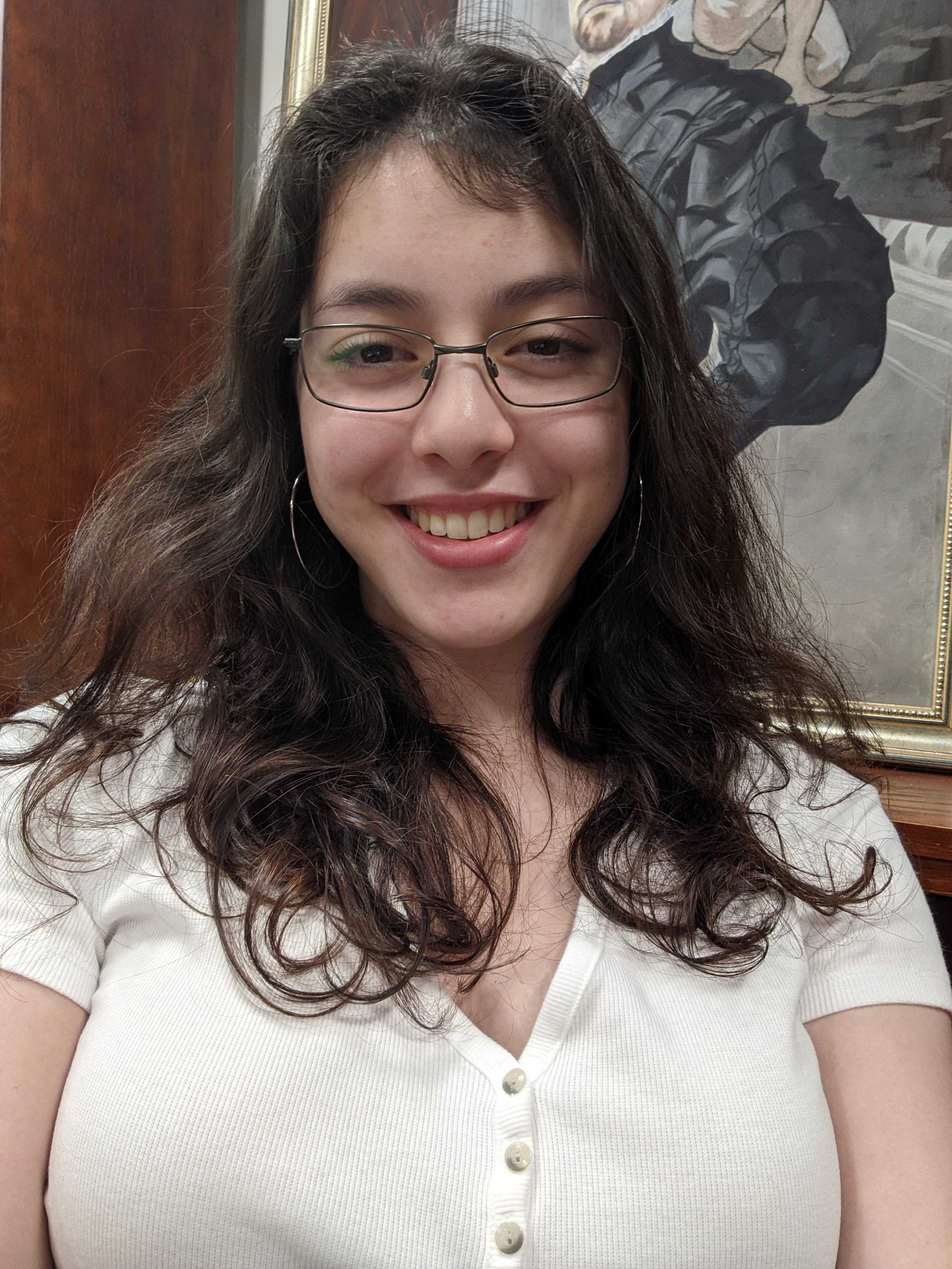
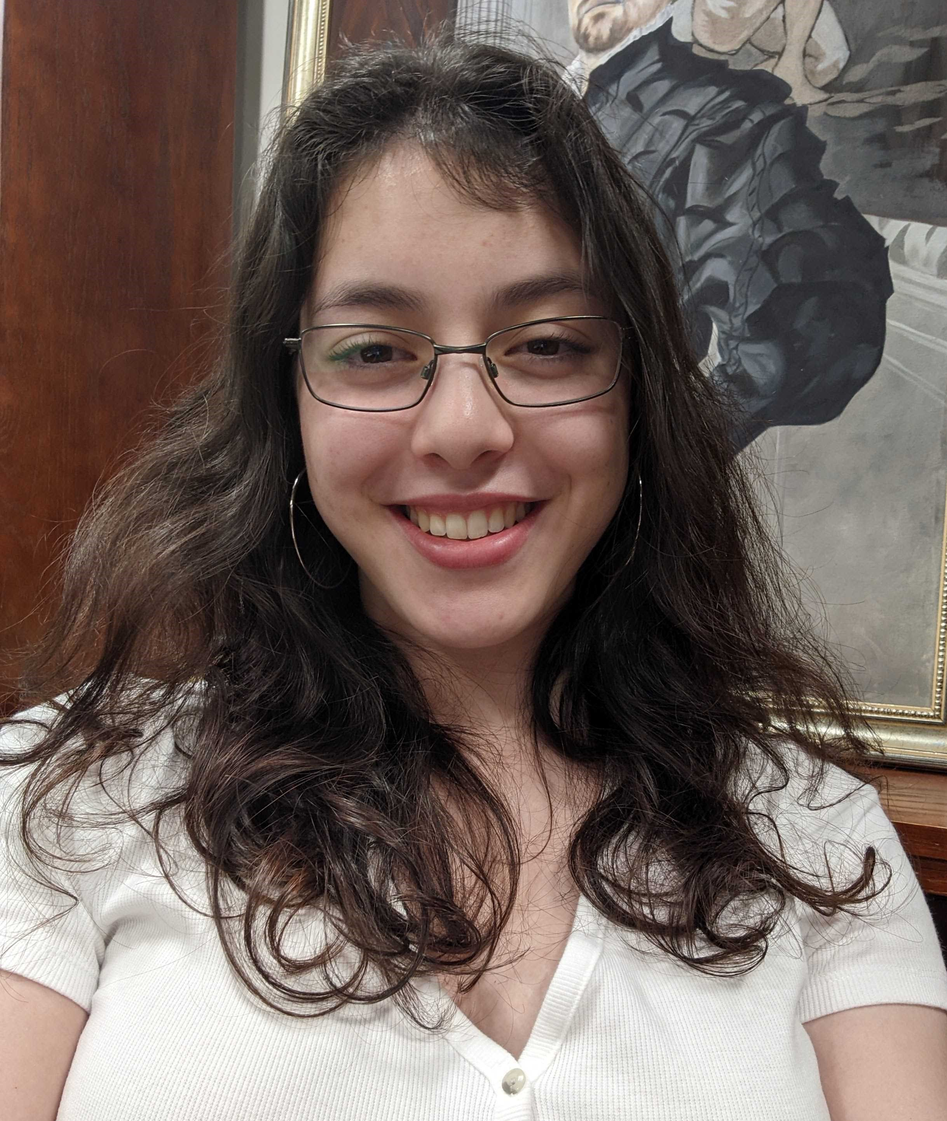
trim photos to fit; add zach

diff --git a/app/team/page.tsx b/app/team/page.tsx
@@ -23,6 +23,7 @@ import luke from "../../images/profiles/luke.jpg";
 import ajay from "../../images/profiles/ajay.jpg";
 import ilan from "../../images/profiles/ilan.jpg";
 import metch from "../../images/profiles/metch.jpg";
+import zach from "../../images/profiles/zach.jpg";
 import styles from "./styles.module.css";
 import Image from "next-image-export-optimizer";
 import Overlay from "../../components/overlay";
@@ -105,15 +106,15 @@ export default function Team() {
             </div>
             < div className={styles.profile} >
               <Image className={`responsive-image brand-border ${styles.profilePhoto}`} src={placeholder} alt="Team Member Profile" />
-              <div className={styles.name}> Name </div>
+              <div className={styles.name}> Carolyn </div>
             </div>
             < div className={styles.profile} >
               <Image className={`responsive-image brand-border ${styles.profilePhoto}`} src={placeholder} alt="Team Member Profile" />
-              <div className={styles.name}> Name </div>
+              <div className={styles.name}> Sherman </div>
             </div>
             < div className={styles.profile} >
               <Image className={`responsive-image brand-border ${styles.profilePhoto}`} src={placeholder} alt="Team Member Profile" />
-              <div className={styles.name}> Name </div>
+              <div className={styles.name}> Ragu </div>
             </div>
             < div className={styles.profile} >
               <Image className={`responsive-image brand-border ${styles.profilePhoto}`} src={placeholder} alt="Team Member Profile" />
@@ -125,7 +126,7 @@ export default function Team() {
       <section className="section container">
         <h1 > Student Leadership </h1>
         < div className={styles.gallery} >
-          <div className={styles.profile}>
+          {/* <div className={styles.profile}>
             <Image className={`responsive-image brand-border ${styles.profilePhoto}`} src={placeholder} alt="Team Member Profile" />
             <div className={styles.name}> Name </div>
             <div className={styles.role}>Mechanical Lead</div>
@@ -134,37 +135,37 @@ export default function Team() {
             <Image className={`responsive-image brand-border ${styles.profilePhoto}`} src={placeholder} alt="Team Member Profile" />
             <div className={styles.name}> Name </div>
             <div className={styles.role}>CAD Lead</div>
-          </div>
+          </div> */}
           < div className={styles.profile} >
             <Image className={`responsive-image brand-border ${styles.profilePhoto}`} src={kendree} alt="Team Member Profile" />
             <div className={styles.name}> Kendree </div>
-            < div className={styles.role} > Programming Lead </div>
+            < div className={styles.role} > Programming Lead; Student Board </div>
           </div>
           < div className={styles.profile} >
             <Image className={`responsive-image brand-border ${styles.profilePhoto}`} src={sonya} alt="Team Member Profile" />
             <div className={styles.name}> Sonya </div>
-            < div className={styles.role} > Electrical Lead </div>
+            < div className={styles.role} > Electrical Lead; Student Board</div>
           </div>
           < div className={styles.profile} >
             <Image className={`responsive-image brand-border ${styles.profilePhoto}`} src={george} alt="Team Member Profile" />
             <div className={styles.name}> George </div>
-            < div className={styles.role} > Outreach & Business Lead </div>
+            < div className={styles.role} > Outreach & Business Lead; CEO </div>
           </div>
-          < div className={styles.profile} >
+          {/* < div className={styles.profile} >
             <Image className={`responsive-image brand-border ${styles.profilePhoto}`} src={placeholder} alt="Team Member Profile" />
             <div className={styles.name}> Name </div>
             < div className={styles.role} > Imagery & Branding Lead </div>
-          </div>
+          </div> */}
           < div className={styles.profile} >
             <Image className={`responsive-image brand-border ${styles.profilePhoto}`} src={maxwell} alt="Team Member Profile" />
             <div className={styles.name}> Maxwell </div>
             < div className={styles.role} > Student Board</div>
           </div>
-          < div className={styles.profile} >
+          {/* < div className={styles.profile} >
             <Image className={`responsive-image brand-border ${styles.profilePhoto}`} src={placeholder} alt="Team Member Profile" />
             <div className={styles.name}> Name </div>
             < div className={styles.role} > Student Board</div>
-          </div>
+          </div> */}
         </div>
       </section>
       <section className="section container">
@@ -221,6 +222,10 @@ export default function Team() {
           < div className={styles.profile} >
             <Image className={`responsive-image brand-border ${styles.profilePhoto}`} src={terry} alt="Team Member Profile" />
             <div className={styles.name}> Terry </div>
+          </div>
+          < div className={styles.profile} >
+            <Image className={`responsive-image brand-border ${styles.profilePhoto}`} src={zach} alt="Team Member Profile" />
+            <div className={styles.name}> Zach </div>
           </div>
         </div>
       </section>
